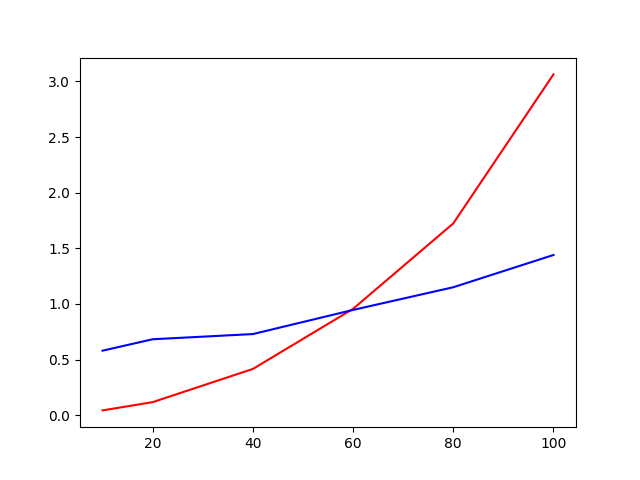
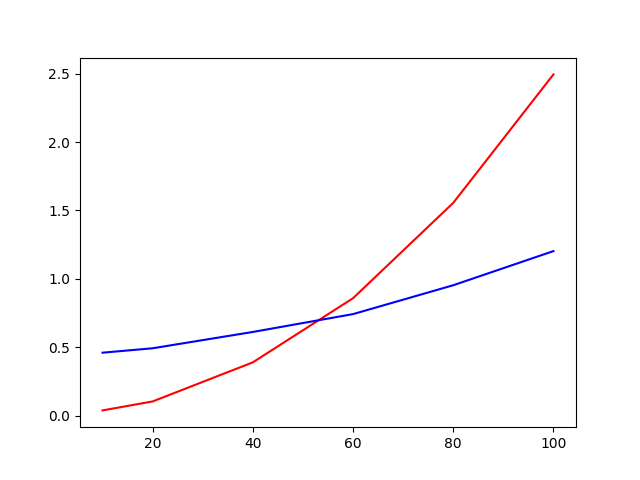
update greedy algo and plooting mock data

diff --git a/src/greedy/GreedyAlgo.py b/src/greedy/GreedyAlgo.py
@@ -1,3 +1,5 @@
+from functools import total_ordering
+
 import numpy as np
 from src.MatrixReader import MatrixReader
 from itertools import combinations
@@ -6,6 +8,8 @@ from src.optimize.OptimizeAlgoApplied import OptimizeAlgoApplied
 import h5py
 
 class GreedyAlgo:
+    def __init__(self, OptimizeAlgoApplied):
+        self.OptimizeAlgoApplied = OptimizeAlgoApplied
 
     def greedy_sub_matrices(self, matrix, vertical_split, horizontal_split):
         if not isinstance(vertical_split, list) or not isinstance(horizontal_split, list):
@@ -20,10 +24,41 @@ class GreedyAlgo:
 
         return sub_matrices
 
+    def greedy_linear_applied(self, cost_matrices, num_of_matrices):
+        total_mapping = []
+        for i in range(num_of_matrices):
+            rows = len(cost_matrices[i])
+            cols = len(cost_matrices[i][0])
+            row_interval = [round(rows / 4), round(rows / 2), round(rows / 4) * 3]
+            col_interval = [round(cols / 4), round(cols / 2), round(cols / 4) * 3]
+            sub_matrices = self.greedy_sub_matrices(cost_matrices[i], row_interval, col_interval)
+
+            mapping_row = []
+            mapping_col = []
+            for j in range(len(sub_matrices)):
+                row, col = self.OptimizeAlgoApplied.compute_linear_sum_assignment(sub_matrices[j])
+                mapping_row.append(row)
+                mapping_col.append(col)
+
+            complete_row_mapping = []
+            complete_col_mapping = []
+            for j in range(len(mapping_row)):
+                if (j < 1):
+                    complete_row_mapping.append(mapping_row[j])
+                    complete_col_mapping.append(mapping_col[j])
+                else:
+                    col_len = col_interval[j - 1]
+                    row_len = row_interval[j - 1]
+                    complete_row_mapping.append((mapping_row[j] + row_len))
+                    complete_col_mapping.append((mapping_col[j] + col_len))
+            total_mapping.append([list(chain(*complete_row_mapping)), list(chain(*complete_col_mapping))])
+        return total_mapping
+
+
 if __name__ == '__main__':
     matrix_reader = MatrixReader()
-    greedy_algo = GreedyAlgo()
     applied_liner_sum = OptimizeAlgoApplied()
+    greedy_algo = GreedyAlgo(OptimizeAlgoApplied)
 
     num_of_matrix = 0
 
@@ -34,33 +69,7 @@ if __name__ == '__main__':
 
     cost_matrices = matrix_reader.load_h5_file('../data/cost_matrices.h5', num_cost_matrices)
 
-    total_mapping = []
-    for i in range(len(cost_matrices)):
-        rows = len(cost_matrices[i])
-        cols = len(cost_matrices[i][0])
-        row_interval = [round(rows / 4), round(rows / 2), round(rows / 4) * 3]
-        col_interval = [round(cols / 4), round(cols / 2), round(cols / 4) * 3]
-        sub_matrices = greedy_algo.greedy_sub_matrices(cost_matrices[i], row_interval, col_interval)
-
-        mapping_row = []
-        mapping_col = []
-        for j in range(len(sub_matrices)):
-            row, col = applied_liner_sum.compute_linear_sum_assignment(sub_matrices[j])
-            mapping_row.append(row)
-            mapping_col.append(col)
-
-        complete_row_mapping = []
-        complete_col_mapping = []
-        for j in range(len(mapping_row)):
-            if (j < 1):
-                complete_row_mapping.append(mapping_row[j])
-                complete_col_mapping.append(mapping_col[j])
-            else:
-                col_len = col_interval[j - 1]
-                row_len = row_interval[j - 1]
-                complete_row_mapping.append((mapping_row[j] + row_len))
-                complete_col_mapping.append((mapping_col[j] + col_len))
-        total_mapping.append([list(chain(*complete_row_mapping)), list(chain(*complete_col_mapping))])
+    total_mapping = greedy_algo.greedy_linear_applied(cost_matrices, num_of_matrix)
 
     with h5py.File('test.h5', 'w') as file:
         for i in range(num_cost_matrices):

diff --git a/src/data/PlootingMockData.py b/src/data/PlootingMockData.py
@@ -3,13 +3,11 @@ from src.data.MockDataGenerator import MockDataGenerator
 from src.optimize.OptimizeAlgoApplied import OptimizeAlgoApplied
 from src.greedy.GreedyAlgo import GreedyAlgo
 import timeit
-import time
-from itertools import chain
 
 if __name__ == '__main__':
     MockDataGenerator = MockDataGenerator()
     OptimizeAlgoApplied = OptimizeAlgoApplied()
-    GreedyAlgo = GreedyAlgo()
+    GreedyAlgo = GreedyAlgo(OptimizeAlgoApplied)
 
     matrix_sizes = [10, 20, 40, 60, 80, 100]
     number_of_matrices = 10000
@@ -21,36 +19,12 @@ if __name__ == '__main__':
         cost_matrices = MockDataGenerator.loadig_mock_data(f'mock_data_{matrix_size}.h5', number_of_matrices)
         execution_time_linear = timeit.timeit('[OptimizeAlgoApplied.compute_linear_sum_assignment(cost_matrices[i]) for i in range(number_of_matrices)]', globals=globals(), number=1)
         execution_times_linear.append(execution_time_linear)
-        start = time.time()
-        total_mapping = []
-        for i in range(len(cost_matrices)):
-            rows = len(cost_matrices[i])
-            cols = len(cost_matrices[i][0])
-            row_interval = [round(rows / 4), round(rows / 2), round(rows / 4) * 3]
-            col_interval = [round(cols / 4), round(cols / 2), round(cols / 4) * 3]
-            sub_matrices = GreedyAlgo.greedy_sub_matrices(cost_matrices[i], row_interval, col_interval)
+        execution_time_greedy = timeit.timeit('GreedyAlgo.greedy_linear_applied(cost_matrices, 10000)', globals=globals(), number=1)
+        execution_times_greedy.append(execution_time_greedy)
 
-            mapping_row = []
-            mapping_col = []
-            for j in range(len(sub_matrices)):
-                row, col = OptimizeAlgoApplied.compute_linear_sum_assignment(sub_matrices[j])
-                mapping_row.append(row)
-                mapping_col.append(col)
-
-            complete_row_mapping = []
-            complete_col_mapping = []
-            for j in range(len(mapping_row)):
-                if (j < 1):
-                    complete_row_mapping.append(mapping_row[j])
-                    complete_col_mapping.append(mapping_col[j])
-                else:
-                    col_len = col_interval[j - 1]
-                    row_len = row_interval[j - 1]
-                    complete_row_mapping.append((mapping_row[j] + row_len))
-                    complete_col_mapping.append((mapping_col[j] + col_len))
-            total_mapping.append([list(chain(*complete_row_mapping)), list(chain(*complete_col_mapping))])
-        end = time.time()
-        execution_times_greedy.append(end - start)
+    print(matrix_sizes)
+    print(execution_times_linear)
+    print(execution_times_greedy)
 
     plt.plot(matrix_sizes, execution_times_linear, color='red')
     plt.plot(matrix_sizes, execution_times_greedy, color='blue')
